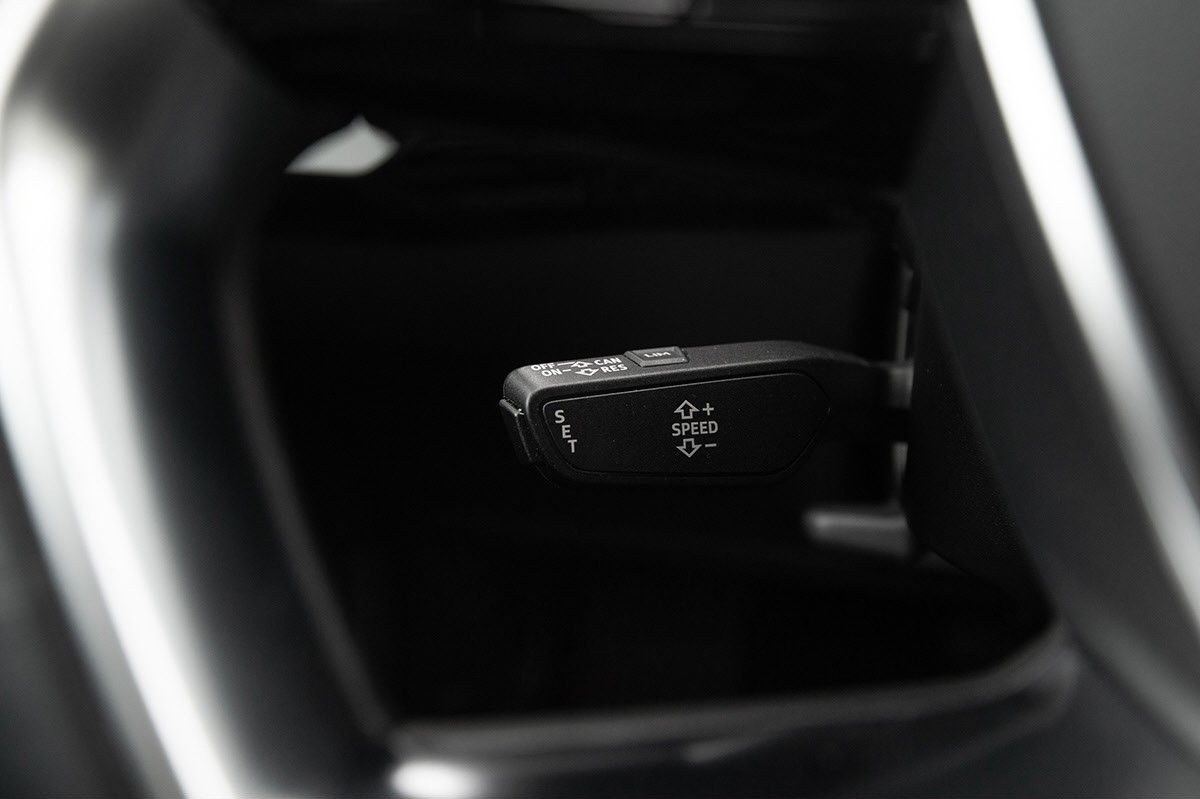
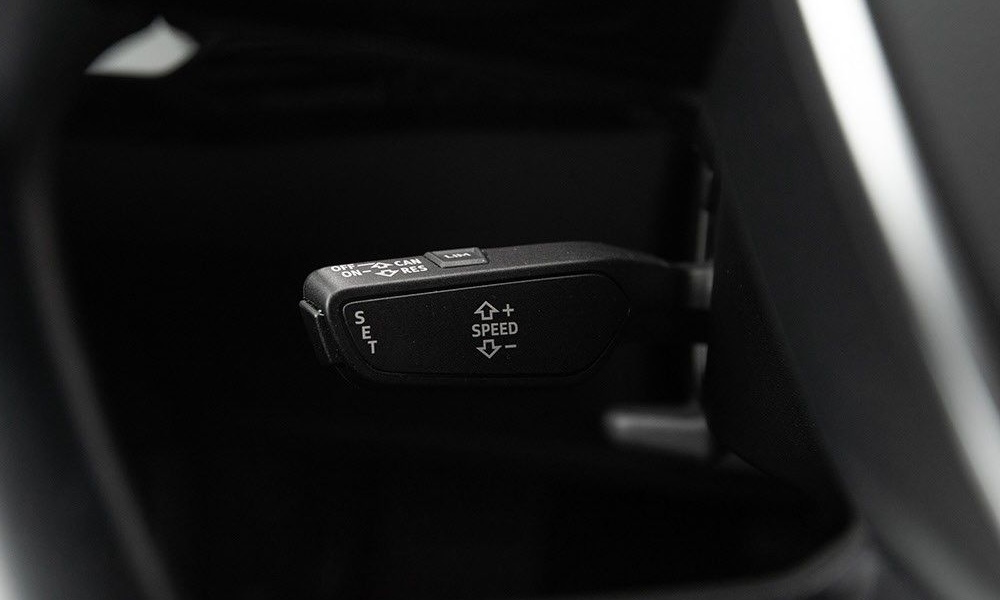
updates

diff --git a/content/models/e-tron/technology/drivingassistance/cruisecontrol/_index.nb.md b/content/models/e-tron/technology/drivingassistance/cruisecontrol/_index.nb.md
@@ -5,7 +5,7 @@ description: Cruisekontroll opprettholder en ønsket kjørehastighet konstant me
 weight: 1
 ---
 
-![Cruisecontrol](cruisecontrol.jpg "Cruise control stang")
+![Cruisecontrol](cruisecontrolhandle.jpg "Cruise control hendel")
 
 Systemet gir avlastning til sjåførene på denne måten – spesielt på lange turer. Samtidig bidrar kjøringen med konstant hastighet til lavere drivstofforbruk og lavere CO2-utslipp. Systemet betjenes via en separat rattstamme, og forhåndsinnstilt kjørehastighet vises i instrumentgruppen. Systemet deaktiveres når føreren bremser.
 

diff --git a/content/models/e-tron/technology/drivingassistance/cruisecontrol/_index.md b/content/models/e-tron/technology/drivingassistance/cruisecontrol/_index.md
@@ -6,7 +6,7 @@ weight: 1
 ---
 
 
-![Cruise control](cruisecontrol.jpg "Cruise control stalk")
+![Cruise control](cruisecontrolhandle.jpg "Cruise control stalk")
 
 The system offers relief to drivers in this way – especially on long trips. At the same time, the constant speed mode of driving contributes towards lower fuel consumption and lower CO2 emissions. The system is operated via a separate steering column stalk, and the preset driving speed is shown in the instrument cluster. The system is deactivated when the driver brakes.
 
